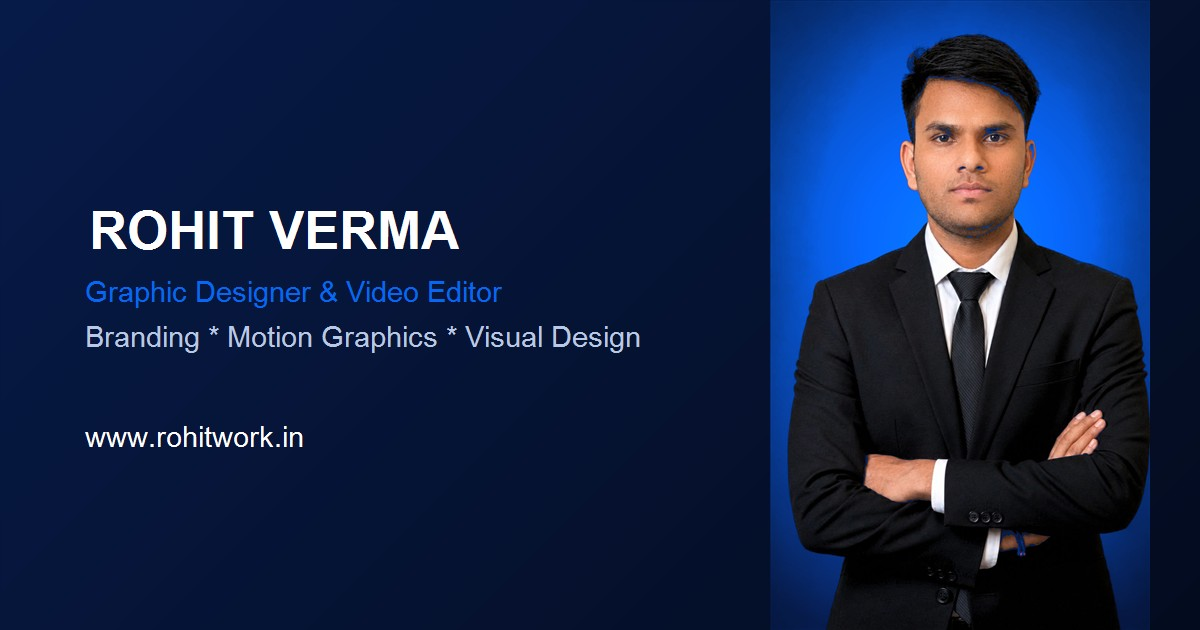
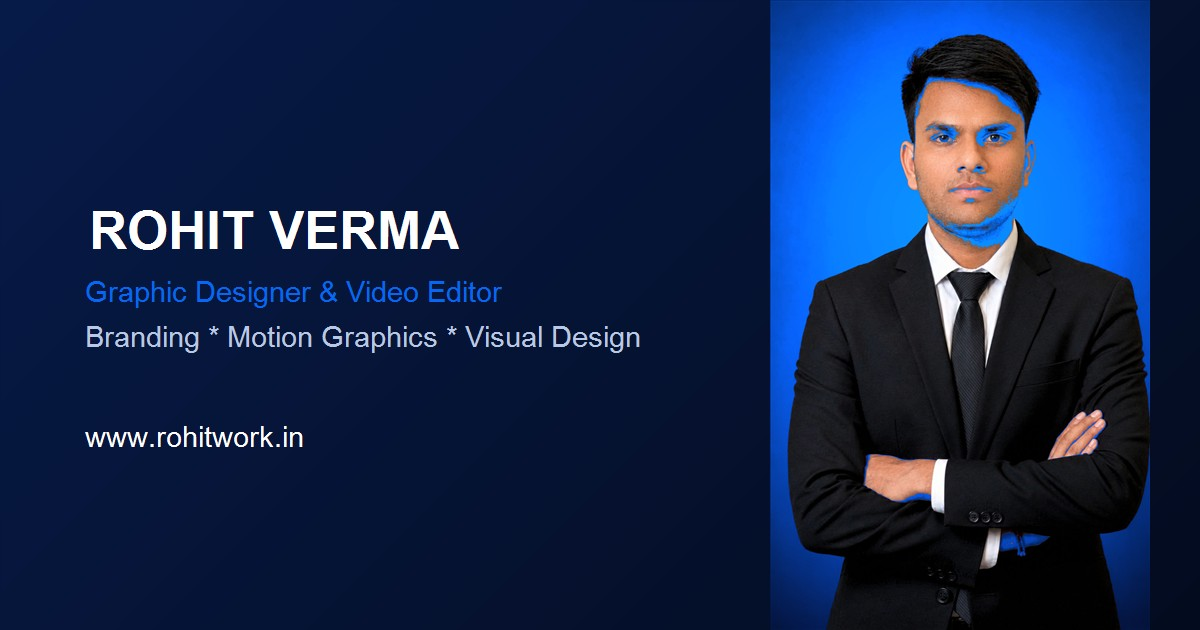
fix: eliminate red studio background and replace with high-quality theme blue lighting

diff --git a/src/data.ts b/src/data.ts
@@ -378,7 +378,9 @@ export function getAuthoritativeProfileImage(configuredImage?: string | null): s
   const trimmed = configuredImage.trim();
   if (
     !trimmed ||
-    trimmed.includes('ChatGPT%20Image') ||
+    trimmed.includes('ChatGPT') ||
+    trimmed.includes('imagekit.io/auhuory9w') ||
+    trimmed.includes('Hero%20section') ||
     trimmed.includes('rohit-avatar.jpg') ||
     trimmed === '/images/rohit-avatar.jpg' ||
     trimmed === '/images/rohit-avatar.webp' ||
